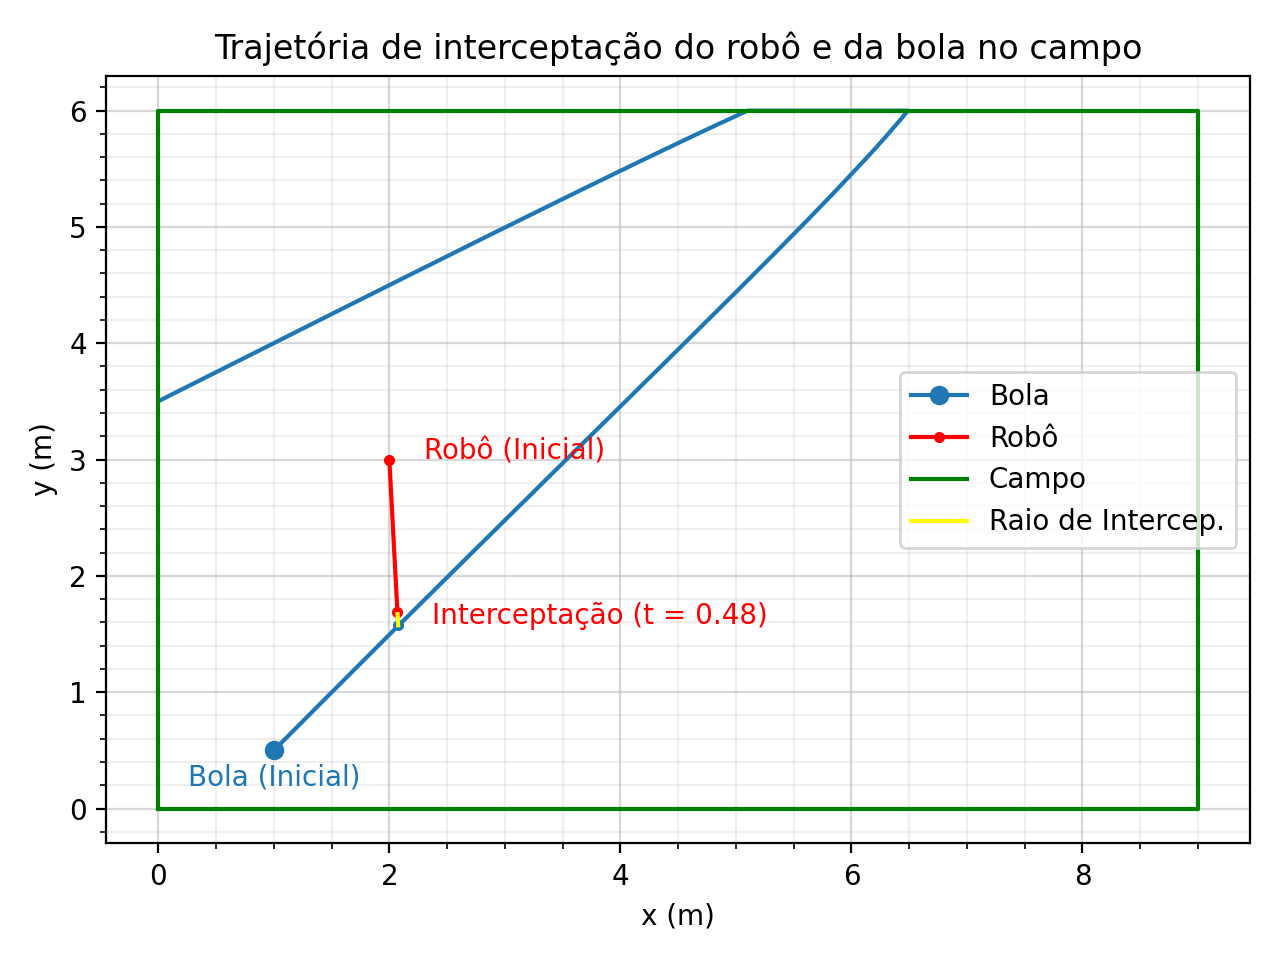
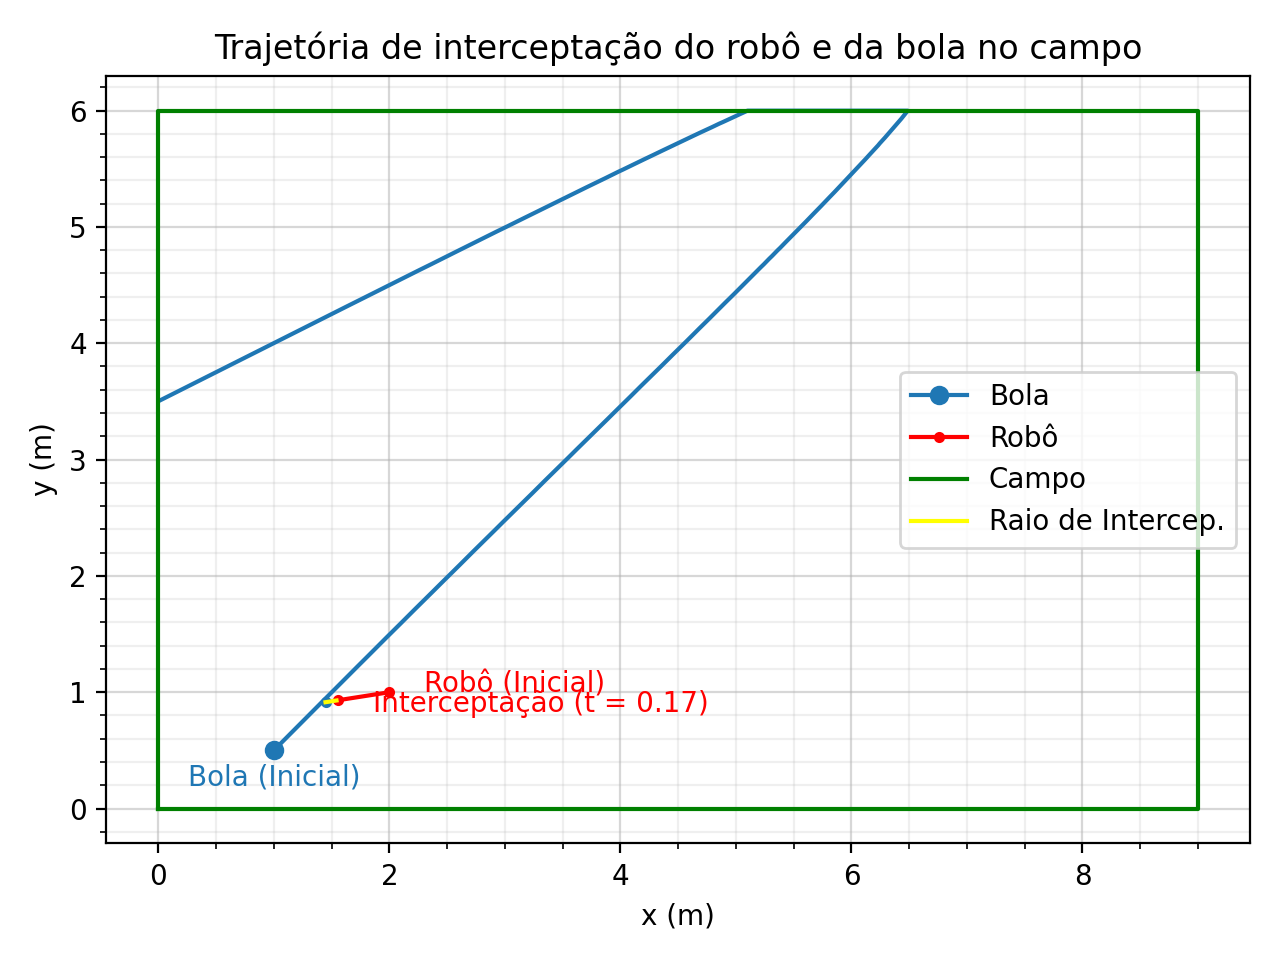
Added Results on screen

Changed region(s): [[0.2812, 0.4688, 0.5938, 0.6562], [0.25, 0.6875, 0.5625, 0.75], [0.3438, 0.4375, 0.4688, 0.5]]

diff --git a/main.py b/main.py
@@ -75,7 +75,6 @@ def interceptacao(sx, sy, arquivo):
     found = 0
 
     # Testa diversos valores de Vx e Vy para encontrar a interceptação em menor tempo
-    print("Realizando testes...")
     values = np.linspace(-2.8, 2.8, num=10000)
     update_progress(0)
     progress = 0
@@ -180,13 +179,6 @@ def interceptacao(sx, sy, arquivo):
     tempo = (sum(tempos)/len(tempos)) - (0.0965/2.8)
     if wait == 1:
         tempo_chegada = (sum(tempos_chegada)/len(tempos_chegada))
-
-    # Exibe os resultados encontrados
-    print("Ponto de interceptação no menor tempo encontrado!")
-    if wait == 1:
-        print("O robô chegará no instante t = %.2f e deverá esperar a bola retornar ao campo." % tempo_chegada)
-    print("A interceptação ocorrerá no instante t = %.2f." % tempo)
-    print("Para isso, o robô deve utilizar uma velocidade de Vx = %.2f e Vy = %.2f." % (vxf, vyf))
 
     # Cria a trajetória x do robô
     rx = []
@@ -355,6 +347,15 @@ def interceptacao(sx, sy, arquivo):
     plt.savefig("results/aceleracao_y_tempo.png", dpi=200)
     plt.clf()
 
+    # Exibe os resultados
+    label_results.configure(text="Ponto de interceptação no menor tempo encontrado!")
+    if wait == 1:
+        label_wait.configure(text=("O robô chegará no instante t = %.2f e deverá\nesperar a bola retornar ao campo." % tempo_chegada))
+    else:
+        label_wait.configure(text='')
+    label_intercept.configure(text=("O robô interceptará a bola no instante t = %.2f." % tempo))
+    label_velocidade.configure(text=("Para isso, o robô deve utilizar uma velocidade de Vx = %.2f e Vy = %.2f." % (vxf, vyf)))
+
 # configura a aparencia da janela
 set_appearance_mode("light")  # Modes: system (default), light, dark
 set_default_color_theme("green") # Themes: blue (default), dark-blue, green
@@ -492,6 +493,16 @@ menu_grafico.set("Trajetória de interceptação")
 # cria o canvas para exibir as imagens
 canvas = Canvas(frame2, width=1280, height=960)
 canvas.pack(anchor=CENTER, padx=10, pady=10)
+
+# cria os labels de resultado
+label_results = CTkLabel(frame1, text='')
+label_results.pack(anchor=W, padx=10, pady=1)
+label_intercept = CTkLabel(frame1, text='')
+label_intercept.pack(anchor=W, padx=10, pady=1)
+label_velocidade = CTkLabel(frame1, text='')
+label_velocidade.pack(anchor=W, padx=10, pady=1)
+label_wait = CTkLabel(frame1, text='')
+label_wait.pack(anchor=W, padx=10, pady=1)
 
 # cria a função que atualiza a barra de progresso
 def update_progress(value):
